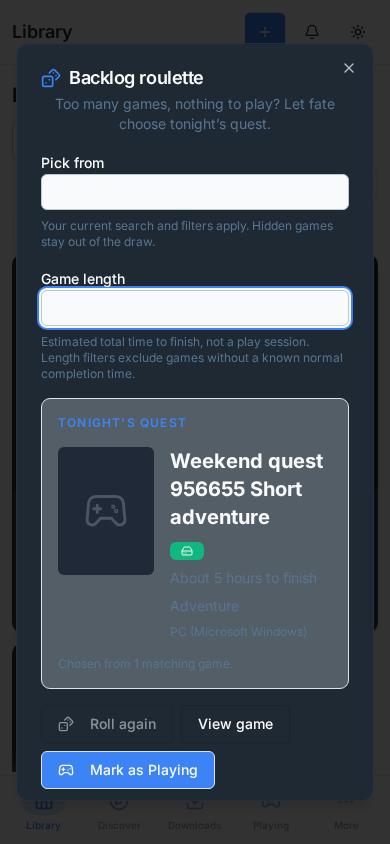
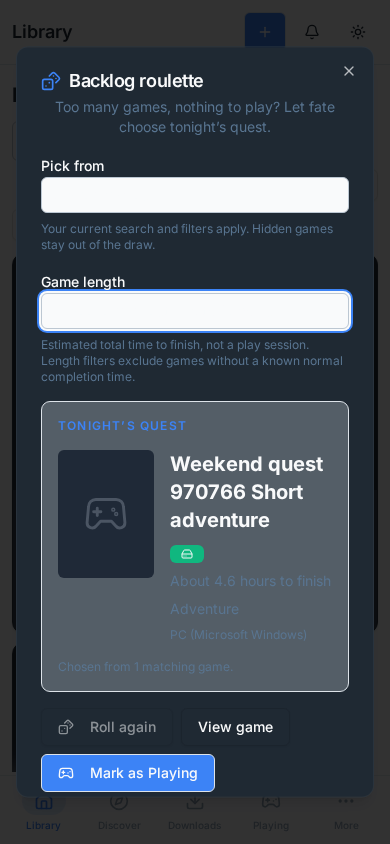
Format fractional roulette completion estimates

diff --git a/tests/e2e/backlog-roulette.spec.ts b/tests/e2e/backlog-roulette.spec.ts
@@ -10,7 +10,7 @@ test.describe("Backlog roulette", () => {
       title: `${prefix} Short adventure`,
       igdbId: id,
       status: "owned",
-      timeToBeatNormally: 5,
+      timeToBeatNormally: 4.56789,
     });
     await seedGame(page, {
       title: `${prefix} Epic journey`,
@@ -27,7 +27,7 @@ test.describe("Backlog roulette", () => {
     await page.getByRole("option", { name: "A weekend quest · up to 15 hours" }).click();
     await expect(dialog.getByTestId("roulette-title")).toHaveText(short.title);
     await expect(dialog.getByText("Chosen from 1 matching game.")).toBeVisible();
-    await expect(dialog.getByText("About 5 hours to finish")).toBeVisible();
+    await expect(dialog.getByText("About 4.6 hours to finish")).toBeVisible();
     await expect(dialog.getByRole("button", { name: "Roll again" })).toBeDisabled();
     await page.screenshot({ path: testInfo.outputPath("weekend-quest-desktop.png") });
     await page.setViewportSize({ width: 390, height: 844 });

diff --git a/client/__tests__/BacklogRoulette.test.tsx b/client/__tests__/BacklogRoulette.test.tsx
@@ -36,6 +36,22 @@ describe("Backlog roulette", () => {
     vi.restoreAllMocks();
   });
 
+  it("formats fractional completion estimates without changing budget eligibility", async () => {
+    render(
+      <BacklogRoulette
+        games={[{ ...game("fractional"), timeToBeatNormally: 5.012345678 }]}
+        loading={false}
+      />
+    );
+    fireEvent.click(screen.getByRole("button", { name: "Pick a game" }));
+    expect(screen.getByText("About 5 hours to finish")).toBeVisible();
+    fireEvent.keyDown(screen.getByRole("combobox", { name: "Game length" }), { key: "ArrowDown" });
+    fireEvent.click(
+      await screen.findByRole("option", { name: "A short adventure · up to 5 hours" })
+    );
+    expect(screen.getByText("No games in this draw")).toBeVisible();
+  });
+
   it("draws only visible owned games and never repeats on consecutive rerolls", () => {
     render(
       <BacklogRoulette

diff --git a/client/src/components/BacklogRoulette.tsx b/client/src/components/BacklogRoulette.tsx
@@ -202,7 +202,11 @@ export default function BacklogRoulette({
                     {Number.isFinite(selected.timeToBeatNormally) &&
                       (selected.timeToBeatNormally ?? 0) > 0 && (
                         <p className="text-sm text-muted-foreground">
-                          About {selected.timeToBeatNormally} hours to finish
+                          About{" "}
+                          {selected.timeToBeatNormally?.toLocaleString("en-US", {
+                            maximumFractionDigits: 1,
+                          })}{" "}
+                          hours to finish
                         </p>
                       )}
                     <p className="text-sm text-muted-foreground break-words">
